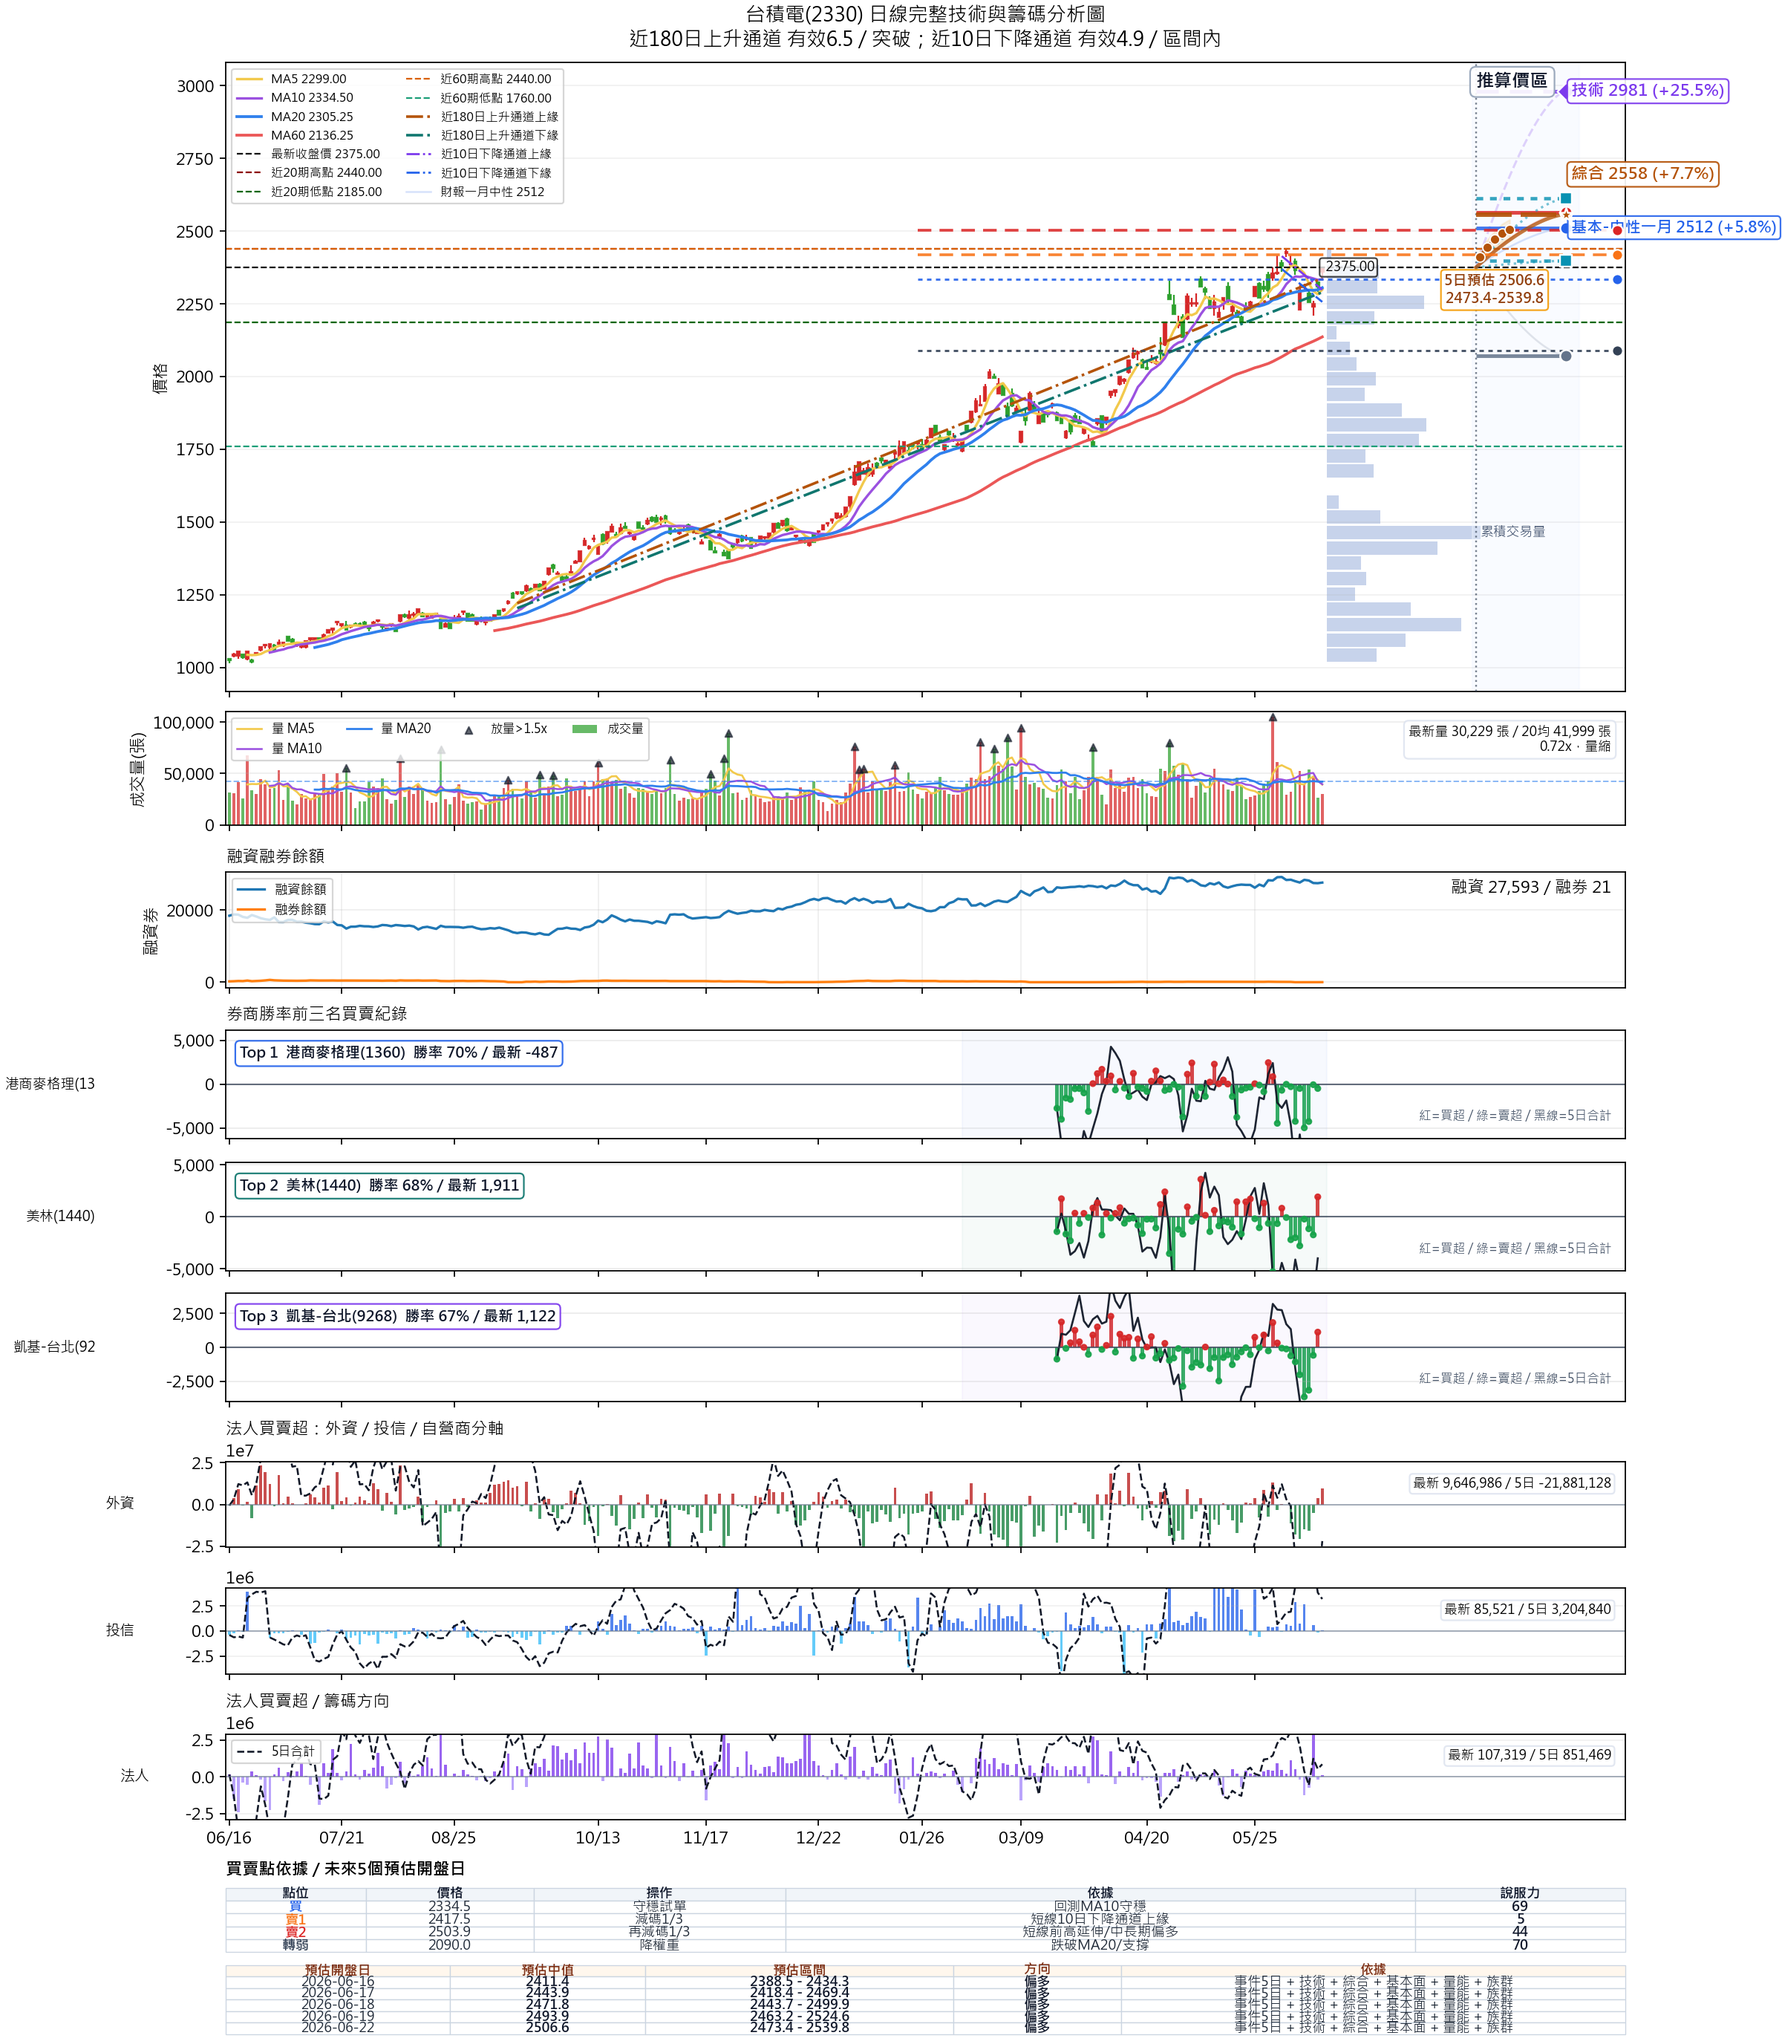
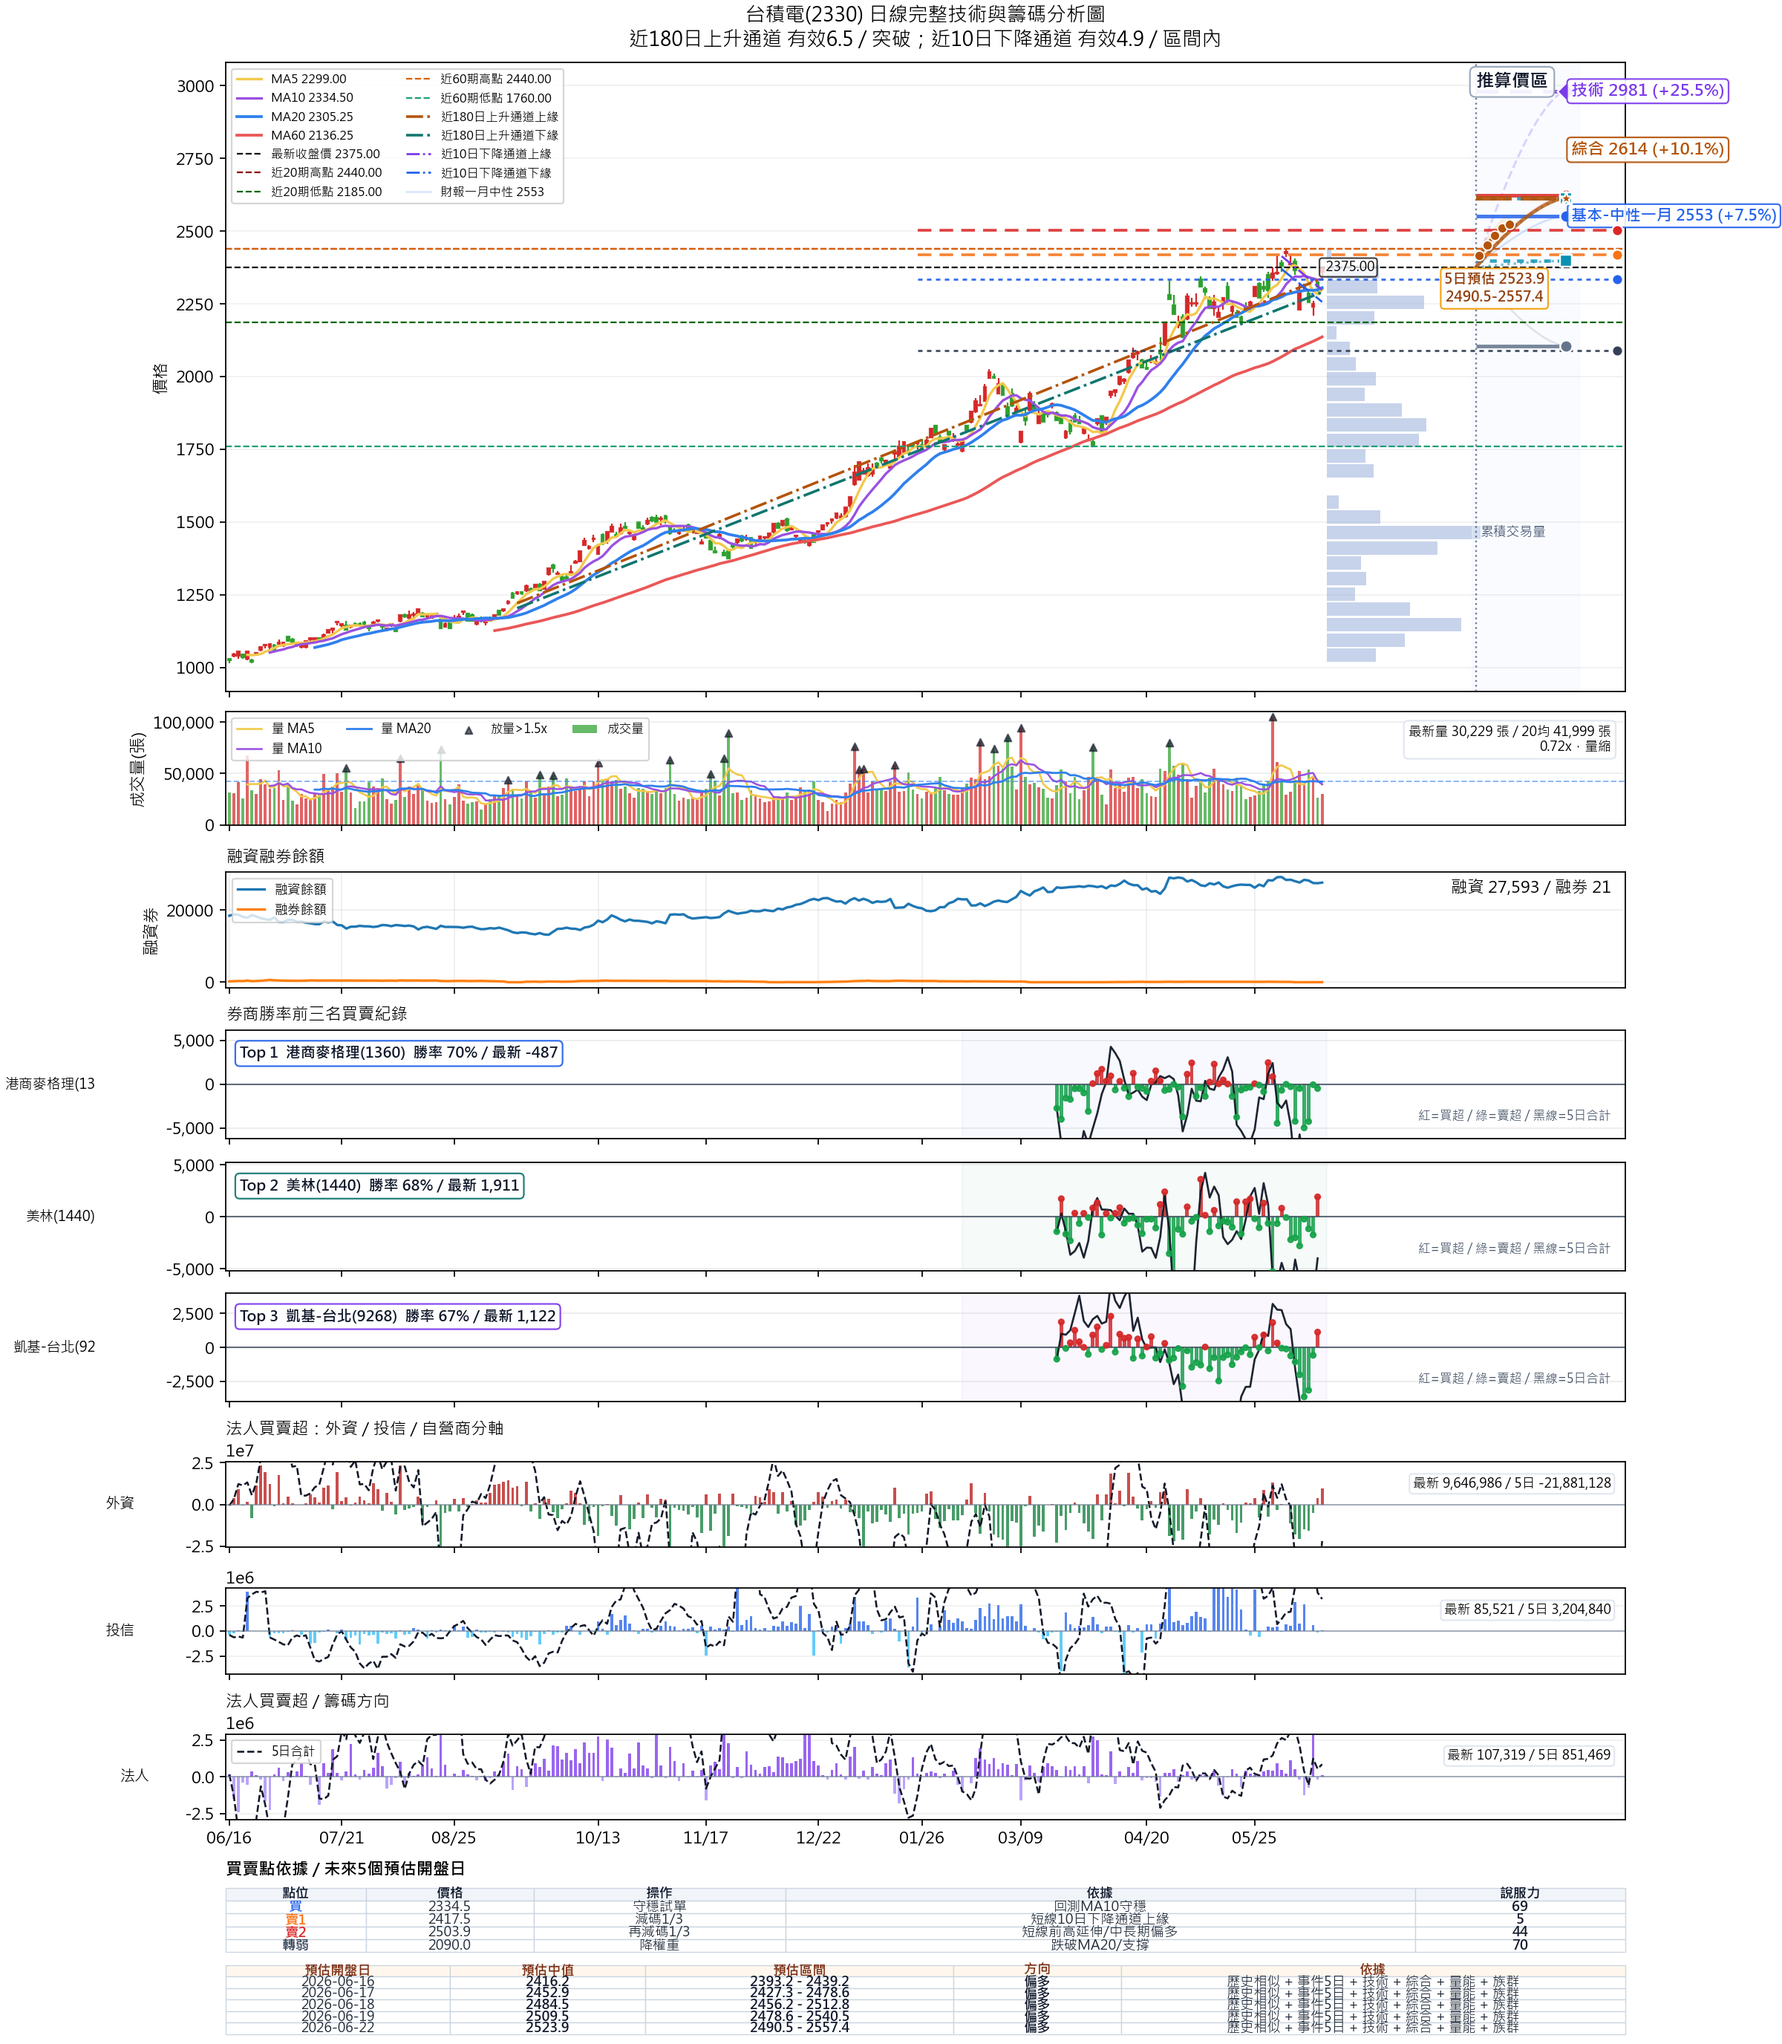
Publish stock report 2330_2026-06-16

diff --git a/2330_2026-06-16/index.html b/2330_2026-06-16/index.html
@@ -161,7 +161,7 @@
 <body>
   <header>
     <h1>台積電(2330) 台股技術分析報告</h1>
-    <div>產生時間：2026-06-16T00:49:12+08:00</div>
+    <div>產生時間：2026-06-16T01:02:14+08:00</div>
   </header>
   <main>
     
@@ -195,21 +195,21 @@
         <section class="panel chart-panel">
           <h2>01_日線完整技術與籌碼分析圖</h2>
           <div class="chart-note"><strong>財報估值參考</strong><span>悲觀 1694 / 中性 2933 / 樂觀 3903</span></div>
-          <img src="01_日線完整技術與籌碼分析圖.png?v=2026-06-16T00:49:12+08:00" alt="01_日線完整技術與籌碼分析圖">
+          <img src="01_日線完整技術與籌碼分析圖.png?v=2026-06-16T01:02:14+08:00" alt="01_日線完整技術與籌碼分析圖">
         </section>
         
 
         <section class="panel chart-panel">
           <h2>02_周線完整技術與趨勢分析圖</h2>
           
-          <img src="02_周線完整技術與趨勢分析圖.png?v=2026-06-16T00:49:12+08:00" alt="02_周線完整技術與趨勢分析圖">
+          <img src="02_周線完整技術與趨勢分析圖.png?v=2026-06-16T01:02:14+08:00" alt="02_周線完整技術與趨勢分析圖">
         </section>
         
 
         <section class="panel chart-panel">
           <h2>03_月線完整技術與長期趨勢分析圖</h2>
           
-          <img src="03_月線完整技術與長期趨勢分析圖.png?v=2026-06-16T00:49:12+08:00" alt="03_月線完整技術與長期趨勢分析圖">
+          <img src="03_月線完整技術與長期趨勢分析圖.png?v=2026-06-16T01:02:14+08:00" alt="03_月線完整技術與長期趨勢分析圖">
         </section>
         
     
@@ -267,8 +267,35 @@
           </thead>
           <tbody><tr><td>ATR 風險範圍</td><td>2183.2 - 2643.5</td><td>限制短期過度樂觀/悲觀</td></tr>
 <tr><td>20/60日支撐壓力</td><td>2183.2 - 2440.0</td><td>貼近日K可操作區</td></tr>
+<tr><td>歷史相似樣本</td><td>2295.7 - 2464.9 / 20日 2583.5</td><td>相似樣本 19 筆；5日中位 +1.5% / 勝率 58%；20日中位 +8.8% / 勝率 79%</td></tr>
 <tr><td>估值/技術上緣</td><td>2933.0 / 3903.0 / 2980.9</td><td>避免單一模型喊價</td></tr>
 <tr><td>收斂後中位</td><td>2369.1</td><td>供未來5日預測與買賣點參考</td></tr></tbody>
+        </table>
+      </div>
+    
+      <h3>歷史相似樣本回推</h3>
+      <p class="notice">相似樣本 19 筆；5日中位 +1.5% / 勝率 58%；20日中位 +8.8% / 勝率 79%</p>
+      <p class="notice">回推參考價：5日 2410.6；20日 2583.5。</p>
+      <div class="table-scroll">
+        <table>
+          <thead>
+            <tr>
+              <th>歷史日期</th>
+              <th>相似距離</th>
+              <th>後5日</th>
+              <th>後20日</th>
+              <th>區間位置</th>
+              <th>ATR</th>
+            </tr>
+          </thead>
+          <tbody><tr><td>2026-04-09</td><td class="cell-number">1.39</td><td class="cell-number">+6.6%</td><td class="cell-number">+17.1%</td><td class="cell-number">100%</td><td class="cell-number">2.6%</td></tr>
+<tr><td>2026-03-11</td><td class="cell-number">1.42</td><td class="cell-number">-1.8%</td><td class="cell-number">+3.1%</td><td class="cell-number">70%</td><td class="cell-number">3.3%</td></tr>
+<tr><td>2026-04-13</td><td class="cell-number">1.48</td><td class="cell-number">+1.8%</td><td class="cell-number">+13.3%</td><td class="cell-number">96%</td><td class="cell-number">2.5%</td></tr>
+<tr><td>2026-03-18</td><td class="cell-number">1.64</td><td class="cell-number">-3.1%</td><td class="cell-number">+6.6%</td><td class="cell-number">53%</td><td class="cell-number">3.1%</td></tr>
+<tr><td>2026-05-15</td><td class="cell-number">1.74</td><td class="cell-number">-0.4%</td><td class="cell-number">+2.0%</td><td class="cell-number">75%</td><td class="cell-number">3.2%</td></tr>
+<tr><td>2025-12-08</td><td class="cell-number">1.77</td><td class="cell-number">-3.0%</td><td class="cell-number">+12.0%</td><td class="cell-number">100%</td><td class="cell-number">2.2%</td></tr>
+<tr><td>2026-04-10</td><td class="cell-number">1.82</td><td class="cell-number">+1.5%</td><td class="cell-number">+11.7%</td><td class="cell-number">100%</td><td class="cell-number">2.5%</td></tr>
+<tr><td>2025-12-05</td><td class="cell-number">1.93</td><td class="cell-number">+1.4%</td><td class="cell-number">+16.8%</td><td class="cell-number">71%</td><td class="cell-number">2.3%</td></tr></tbody>
         </table>
       </div>
     
@@ -364,7 +391,7 @@
         <section class="panel chart-panel">
           <h2>06_基本面分析圖</h2>
           
-          <img src="06_基本面分析圖.png?v=2026-06-16T00:49:12+08:00" alt="06_基本面分析圖">
+          <img src="06_基本面分析圖.png?v=2026-06-16T01:02:14+08:00" alt="06_基本面分析圖">
         </section>
         
     
@@ -483,7 +510,7 @@
         <section class="panel chart-panel">
           <h2>05_同族群比較分析圖</h2>
           
-          <img src="05_同族群比較分析圖.png?v=2026-06-16T00:49:12+08:00" alt="05_同族群比較分析圖">
+          <img src="05_同族群比較分析圖.png?v=2026-06-16T01:02:14+08:00" alt="05_同族群比較分析圖">
         </section>
         
     
@@ -684,7 +711,7 @@
         <section class="panel chart-panel">
           <h2>04_權證完整分析圖</h2>
           
-          <img src="04_權證完整分析圖.png?v=2026-06-16T00:49:12+08:00" alt="04_權證完整分析圖">
+          <img src="04_權證完整分析圖.png?v=2026-06-16T01:02:14+08:00" alt="04_權證完整分析圖">
         </section>
         
       <div class="table-scroll">

diff --git a/2330_latest/index.html b/2330_latest/index.html
@@ -161,7 +161,7 @@
 <body>
   <header>
     <h1>台積電(2330) 台股技術分析報告</h1>
-    <div>產生時間：2026-06-16T00:49:12+08:00</div>
+    <div>產生時間：2026-06-16T01:02:14+08:00</div>
   </header>
   <main>
     
@@ -195,21 +195,21 @@
         <section class="panel chart-panel">
           <h2>01_日線完整技術與籌碼分析圖</h2>
           <div class="chart-note"><strong>財報估值參考</strong><span>悲觀 1694 / 中性 2933 / 樂觀 3903</span></div>
-          <img src="01_日線完整技術與籌碼分析圖.png?v=2026-06-16T00:49:12+08:00" alt="01_日線完整技術與籌碼分析圖">
+          <img src="01_日線完整技術與籌碼分析圖.png?v=2026-06-16T01:02:14+08:00" alt="01_日線完整技術與籌碼分析圖">
         </section>
         
 
         <section class="panel chart-panel">
           <h2>02_周線完整技術與趨勢分析圖</h2>
           
-          <img src="02_周線完整技術與趨勢分析圖.png?v=2026-06-16T00:49:12+08:00" alt="02_周線完整技術與趨勢分析圖">
+          <img src="02_周線完整技術與趨勢分析圖.png?v=2026-06-16T01:02:14+08:00" alt="02_周線完整技術與趨勢分析圖">
         </section>
         
 
         <section class="panel chart-panel">
           <h2>03_月線完整技術與長期趨勢分析圖</h2>
           
-          <img src="03_月線完整技術與長期趨勢分析圖.png?v=2026-06-16T00:49:12+08:00" alt="03_月線完整技術與長期趨勢分析圖">
+          <img src="03_月線完整技術與長期趨勢分析圖.png?v=2026-06-16T01:02:14+08:00" alt="03_月線完整技術與長期趨勢分析圖">
         </section>
         
     
@@ -267,8 +267,35 @@
           </thead>
           <tbody><tr><td>ATR 風險範圍</td><td>2183.2 - 2643.5</td><td>限制短期過度樂觀/悲觀</td></tr>
 <tr><td>20/60日支撐壓力</td><td>2183.2 - 2440.0</td><td>貼近日K可操作區</td></tr>
+<tr><td>歷史相似樣本</td><td>2295.7 - 2464.9 / 20日 2583.5</td><td>相似樣本 19 筆；5日中位 +1.5% / 勝率 58%；20日中位 +8.8% / 勝率 79%</td></tr>
 <tr><td>估值/技術上緣</td><td>2933.0 / 3903.0 / 2980.9</td><td>避免單一模型喊價</td></tr>
 <tr><td>收斂後中位</td><td>2369.1</td><td>供未來5日預測與買賣點參考</td></tr></tbody>
+        </table>
+      </div>
+    
+      <h3>歷史相似樣本回推</h3>
+      <p class="notice">相似樣本 19 筆；5日中位 +1.5% / 勝率 58%；20日中位 +8.8% / 勝率 79%</p>
+      <p class="notice">回推參考價：5日 2410.6；20日 2583.5。</p>
+      <div class="table-scroll">
+        <table>
+          <thead>
+            <tr>
+              <th>歷史日期</th>
+              <th>相似距離</th>
+              <th>後5日</th>
+              <th>後20日</th>
+              <th>區間位置</th>
+              <th>ATR</th>
+            </tr>
+          </thead>
+          <tbody><tr><td>2026-04-09</td><td class="cell-number">1.39</td><td class="cell-number">+6.6%</td><td class="cell-number">+17.1%</td><td class="cell-number">100%</td><td class="cell-number">2.6%</td></tr>
+<tr><td>2026-03-11</td><td class="cell-number">1.42</td><td class="cell-number">-1.8%</td><td class="cell-number">+3.1%</td><td class="cell-number">70%</td><td class="cell-number">3.3%</td></tr>
+<tr><td>2026-04-13</td><td class="cell-number">1.48</td><td class="cell-number">+1.8%</td><td class="cell-number">+13.3%</td><td class="cell-number">96%</td><td class="cell-number">2.5%</td></tr>
+<tr><td>2026-03-18</td><td class="cell-number">1.64</td><td class="cell-number">-3.1%</td><td class="cell-number">+6.6%</td><td class="cell-number">53%</td><td class="cell-number">3.1%</td></tr>
+<tr><td>2026-05-15</td><td class="cell-number">1.74</td><td class="cell-number">-0.4%</td><td class="cell-number">+2.0%</td><td class="cell-number">75%</td><td class="cell-number">3.2%</td></tr>
+<tr><td>2025-12-08</td><td class="cell-number">1.77</td><td class="cell-number">-3.0%</td><td class="cell-number">+12.0%</td><td class="cell-number">100%</td><td class="cell-number">2.2%</td></tr>
+<tr><td>2026-04-10</td><td class="cell-number">1.82</td><td class="cell-number">+1.5%</td><td class="cell-number">+11.7%</td><td class="cell-number">100%</td><td class="cell-number">2.5%</td></tr>
+<tr><td>2025-12-05</td><td class="cell-number">1.93</td><td class="cell-number">+1.4%</td><td class="cell-number">+16.8%</td><td class="cell-number">71%</td><td class="cell-number">2.3%</td></tr></tbody>
         </table>
       </div>
     
@@ -364,7 +391,7 @@
         <section class="panel chart-panel">
           <h2>06_基本面分析圖</h2>
           
-          <img src="06_基本面分析圖.png?v=2026-06-16T00:49:12+08:00" alt="06_基本面分析圖">
+          <img src="06_基本面分析圖.png?v=2026-06-16T01:02:14+08:00" alt="06_基本面分析圖">
         </section>
         
     
@@ -483,7 +510,7 @@
         <section class="panel chart-panel">
           <h2>05_同族群比較分析圖</h2>
           
-          <img src="05_同族群比較分析圖.png?v=2026-06-16T00:49:12+08:00" alt="05_同族群比較分析圖">
+          <img src="05_同族群比較分析圖.png?v=2026-06-16T01:02:14+08:00" alt="05_同族群比較分析圖">
         </section>
         
     
@@ -684,7 +711,7 @@
         <section class="panel chart-panel">
           <h2>04_權證完整分析圖</h2>
           
-          <img src="04_權證完整分析圖.png?v=2026-06-16T00:49:12+08:00" alt="04_權證完整分析圖">
+          <img src="04_權證完整分析圖.png?v=2026-06-16T01:02:14+08:00" alt="04_權證完整分析圖">
         </section>
         
       <div class="table-scroll">
